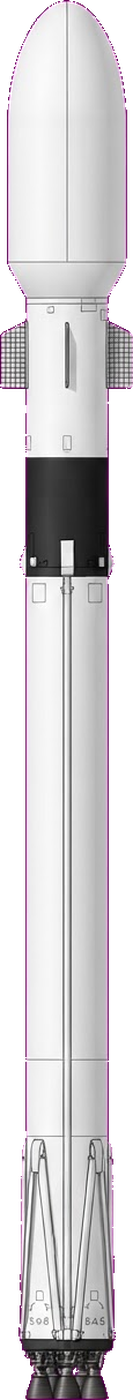
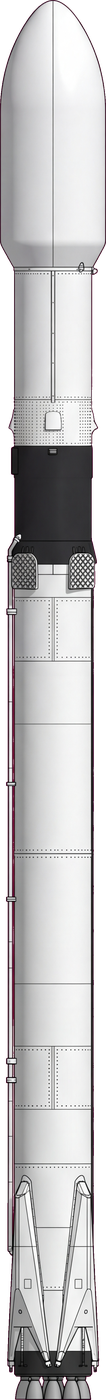
fix(rocket): two-palette split -- the export would have smeared on real hardware
Researching the PhotoPainter's actual image path turned up a defect that would
have shipped and looked like a hardware fault.

The firmware reads 24-bit BMPs off a microSD card and matches every pixel
against six EXACT nominal RGB triples -- (0,0,0), (255,255,255), (255,255,0),
(255,0,0), (0,0,255), (0,255,0). Its GUI_BMPfile.c has no else clause, and
`color` is declared outside the pixel loop, so a pixel matching none of them
inherits the PREVIOUS pixel's colour and smears horizontally across the row.

This kit emits measured ink values -- (26,26,24), (214,211,200) and so on.
All six miss. Every row of every poster would have streaked, and the obvious
diagnosis would have been a bad panel or a bad SD card.

The fix is the two-palette split that every serious project on this hardware
uses: quantize against MEASURED values, because e-paper reflects 30-70% darker
than nominal and deciding against nominal RGB computes both the nearest-ink
choice and the diffused error against a fiction -- then map to NOMINAL on
export, because that is what the firmware compares. Both, in that order.

export_bmp.py performs the swap, refuses to write a file containing anything
else, and re-reads the result to confirm. Five tests cover it, including one
that corrupts a single pixel to prove the guard can fail, and one that pins the
two palettes as genuinely different so the swap cannot silently become a no-op.

Also recorded in the README: buy the ESP32-S3 version rather than PhotoPainter
[…]

diff --git a/docs/rocket-poster-kit/test_poster.py b/docs/rocket-poster-kit/test_poster.py
@@ -13,9 +13,10 @@ off-palette color, not here.
 import json, os, unittest
 from PIL import Image, ImageDraw
 
+import export_bmp
 import launch
 import typeset as T
-from palette import INKS, INK_RGB, CANVAS, palette_for, FALLBACK
+from palette import INKS, INK_RGB, CANVAS, NOMINAL, MEASURED_TO_NOMINAL, palette_for, FALLBACK
 from poster import render, M, on
 from spectra6 import verify, pack, index_map
 import flag
@@ -332,3 +333,55 @@ class Normalizer(unittest.TestCase):
 
 if __name__ == "__main__":
     unittest.main(verbosity=2)
+
+
+class PanelExport(unittest.TestCase):
+    """The BMP the firmware actually reads.
+
+    PhotoPainter's GUI_BMPfile.c matches each pixel against six EXACT nominal
+    RGB triples. There is no else clause, and its `color` variable lives
+    outside the pixel loop -- so a pixel matching none of them inherits the
+    previous pixel and smears across the row. Everything here guards that.
+    """
+
+    def test_the_two_palettes_are_actually_different(self):
+        """If these ever converge, the swap is a no-op and the reason for it
+        has been lost. They should not: measured white is newsprint grey."""
+        self.assertNotEqual(set(INKS.values()), set(NOMINAL.values()))
+        self.assertEqual(len(MEASURED_TO_NOMINAL), 6)
+
+    def test_every_fixture_exports_only_nominal_inks(self):
+        for i, rec in enumerate(SAMPLES):
+            img = render(rec, previous=SAMPLES[i - 1])
+            bmp = export_bmp.to_panel_bmp(img)
+            used = {c for _, c in bmp.getcolors(bmp.width * bmp.height)}
+            with self.subTest(i=i):
+                self.assertTrue(used <= set(NOMINAL.values()),
+                                f"record {i} exported {used - set(NOMINAL.values())}")
+
+    def test_a_stray_pixel_is_refused_rather_than_smeared(self):
+        """The export must fail loudly. Passing one bad pixel through is worse
+        than an exception -- it corrupts an entire row on the panel."""
+        img = render(SAMPLES[3], previous=SAMPLES[2])
+        img.putpixel((400, 240), (7, 8, 9))
+        with self.assertRaises(ValueError):
+            export_bmp.to_panel_bmp(img)
+
+    def test_the_written_file_is_what_the_firmware_expects(self):
+        import tempfile
+        img = render(SAMPLES[3], previous=SAMPLES[2])
+        with tempfile.TemporaryDirectory() as td:
+            p = os.path.join(td, "001.bmp")
+            export_bmp.to_panel_bmp(img).save(p, "BMP")
+            self.assertEqual(export_bmp.verify_bmp(p), set())
+            reread = Image.open(p)
+            self.assertEqual(reread.size, CANVAS)      # 800x480, not rotated
+            self.assertEqual(reread.mode, "RGB")       # 24-bit, not palettised
+            # 24-bit uncompressed: 3 bytes/px plus a small header
+            self.assertGreater(os.path.getsize(p), CANVAS[0] * CANVAS[1] * 3)
+
+    def test_wrong_canvas_size_is_refused(self):
+        """The firmware accepts only 800x480 or 480x800. Anything else is a
+        silent no-display, so catch it here."""
+        with self.assertRaises(ValueError):
+            export_bmp.to_panel_bmp(Image.new("RGB", (640, 400), INKS["black"]))

diff --git a/docs/rocket-poster-kit/export_bmp.py b/docs/rocket-poster-kit/export_bmp.py
@@ -1,0 +1,75 @@
+#!/usr/bin/env python3
+"""
+Export a finished poster as the 24-bit BMP the PhotoPainter firmware reads.
+
+The panel is fed from a microSD card, not over the wire: FAT32, a `pic/` folder
+in the root (`06_user_Foundation_img/` on the ESP32-S3 build), 24-bit
+uncompressed BMP at exactly 800x480.
+
+The load-bearing step is the palette swap. We design and quantize against
+MEASURED ink values, because that is what the panel really reflects and what
+makes the nearest-ink decision honest. But the firmware's BMP reader compares
+each pixel against six EXACT nominal triples, with no else clause and with its
+`color` variable declared outside the pixel loop -- so any pixel that matches
+none of them inherits the previous pixel's colour and smears horizontally.
+Shipping measured values would have missed all six and produced coloured
+streaks across every row.
+
+    python3 export_bmp.py next-launch.png --out pic/001.bmp
+"""
+
+import argparse, os
+
+import numpy as np
+from PIL import Image
+
+from palette import CANVAS, INKS, MEASURED_TO_NOMINAL, NOMINAL
+
+
+def to_panel_bmp(img):
+    """Measured-ink RGB -> nominal-ink RGB, and assert nothing is left over."""
+    rgb = img.convert("RGB")
+    if rgb.size != CANVAS:
+        raise ValueError(f"panel expects {CANVAS[0]}x{CANVAS[1]}, got {rgb.size}")
+    a = np.asarray(rgb)
+    out = np.zeros_like(a)
+    seen = np.zeros(a.shape[:2], bool)
+    for measured, nominal in MEASURED_TO_NOMINAL.items():
+        m = (a[:, :, 0] == measured[0]) & (a[:, :, 1] == measured[1]) & (a[:, :, 2] == measured[2])
+        out[m] = nominal
+        seen |= m
+    if not seen.all():
+        stray = {tuple(c) for c in a[~seen].reshape(-1, 3)[:5]}
+        raise ValueError(
+            f"{(~seen).sum()} pixels are not measured inks, e.g. {stray}. "
+            "The firmware would smear these across the row -- fix upstream.")
+    return Image.fromarray(out, "RGB")
+
+
+def verify_bmp(path):
+    """Re-read the written file and prove every pixel is a nominal ink. Cheap
+    insurance against a save-time colour conversion undoing the whole thing."""
+    a = np.asarray(Image.open(path).convert("RGB"))
+    allowed = set(NOMINAL.values())
+    used = {tuple(c) for c in np.unique(a.reshape(-1, 3), axis=0)}
+    return used - allowed
+
+
+def main():
+    ap = argparse.ArgumentParser()
+    ap.add_argument("image")
+    ap.add_argument("--out")
+    a = ap.parse_args()
+    src = Image.open(a.image)
+    out = a.out or a.image.rsplit(".", 1)[0] + ".bmp"
+    os.makedirs(os.path.dirname(out) or ".", exist_ok=True)
+    to_panel_bmp(src).save(out, "BMP")          # Pillow writes 24-bit uncompressed
+    bad = verify_bmp(out)
+    size = os.path.getsize(out)
+    print(f"{out}  {size:,} bytes  {'OK' if not bad else f'STRAY {bad}'}")
+    if bad:
+        raise SystemExit(1)
+
+
+if __name__ == "__main__":
+    main()

diff --git a/docs/rocket-poster-kit/palette.py b/docs/rocket-poster-kit/palette.py
@@ -12,7 +12,23 @@ The destination pairing is what gives the series variety without redesign:
 a polar sun-sync shot are different posters by construction, not by hand.
 """
 
-# name -> measured RGB
+# TWO palettes, and conflating them silently destroys the image.
+#
+# MEASURED is what the panel actually reflects. Quantize against these, so both
+# the nearest-ink decision and the diffused error reflect reality -- e-paper
+# shows colours 30-70% darker than nominal, and deciding against nominal RGB
+# produces washed-out results with wrong error propagation.
+#
+# NOMINAL is what the firmware's BMP reader matches. PhotoPainter's
+# GUI_BMPfile.c tests each pixel against six exact RGB triples with NO else
+# clause, and `color` is declared outside the pixel loop -- so a pixel that
+# matches nothing silently inherits the PREVIOUS pixel's colour and smears
+# horizontally across the row. It is not a nearest-match; it is exact or
+# garbage.
+#
+# So: design and quantize in MEASURED, then map to NOMINAL on export. Writing
+# measured values into the BMP would have missed all six triples and turned
+# every poster into coloured streaks.
 INKS = {
     "black":  (26, 26, 24),
     "white":  (214, 211, 200),   # newsprint grey, not paper white
@@ -21,6 +37,18 @@ INKS = {
     "blue":   (53, 84, 138),
     "green":  (74, 117, 80),
 }
+
+# Exactly what lib/GUI/GUI_BMPfile.c compares against. Do not "improve" these.
+NOMINAL = {
+    "black":  (0, 0, 0),
+    "white":  (255, 255, 255),
+    "yellow": (255, 255, 0),
+    "red":    (255, 0, 0),
+    "blue":   (0, 0, 255),
+    "green":  (0, 255, 0),
+}
+
+MEASURED_TO_NOMINAL = {INKS[k]: NOMINAL[k] for k in INKS}
 
 # Panel index order. spectra6.pack() writes 4bpp against this ordering; the
 # driver's own order is a separate thing to verify against the datasheet.

diff --git a/docs/rocket-poster-kit/README.md b/docs/rocket-poster-kit/README.md
@@ -5,10 +5,48 @@ Spectra 6 panel in the **Rocket Launch Wall Art** build
 (`src/data/rocket-launch-art.json`).
 
 ```bash
-python3 launch.py --bin              # fetch the next launch, render, pack for the panel
-python3 poster.py --all              # render all 24 offline fixtures
-python3 -m unittest discover .       # the gates
+python3 launch.py                          # fetch the next launch and render it
+python3 export_bmp.py next-launch.png --out pic/001.bmp   # what goes on the SD card
+python3 poster.py --all                    # render all 24 offline fixtures
+python3 -m unittest discover .             # the gates
 ```
+
+## Getting it onto the panel
+
+The PhotoPainter reads from a **microSD card**: FAT32, a `pic/` folder in the
+root, **24-bit uncompressed BMP**, exactly 800×480. Not PNG, not palettised.
+
+**The trap that will bite you.** The firmware's BMP reader
+(`lib/GUI/GUI_BMPfile.c`) compares every pixel against six *exact* RGB triples.
+There is no else clause, and its `color` variable is declared outside the pixel
+loop — so a pixel matching none of them silently inherits the previous pixel's
+colour and smears horizontally across the row. This is why people report
+"coloured streaks".
+
+So the kit carries two palettes and `export_bmp.py` swaps between them:
+
+| | Used for | Example: white |
+|---|---|---|
+| `INKS` (measured) | designing and quantizing — what the panel really reflects | `(214,211,200)` |
+| `NOMINAL` | the exported BMP — what the firmware matches | `(255,255,255)` |
+
+Quantizing against nominal RGB would be wrong twice over: e-paper shows colours
+30–70% darker than nominal, so both the nearest-ink choice and the diffused
+error would be computed against a fiction. Writing measured values into the BMP
+would miss all six triples. You need both, in that order.
+
+`export_bmp.py` refuses to write a file containing anything else, and re-reads
+the result to confirm.
+
+**Buy the ESP32-S3 version, not PhotoPainter (B).** The (B) is RP2350-based and
+has **no radio at all** — SD card only. The ESP32-S3-PhotoPainter is cheaper
+*and* has WiFi. For automated fetch, `aitjcize/esp32-photoframe` (MIT, active)
+replaces the stock firmware and adds URL polling with ETag caching, so the panel
+only burns a 25-second refresh when the launch data actually changed.
+
+**Hardware bug to know about:** shipping boards use the AXP2101 PMIC and restart
+unpredictably when USB-C *and* battery are connected at once. Use one or the
+other. Waveshare has confirmed it.
 
 ## Why a template and not an image model
 
